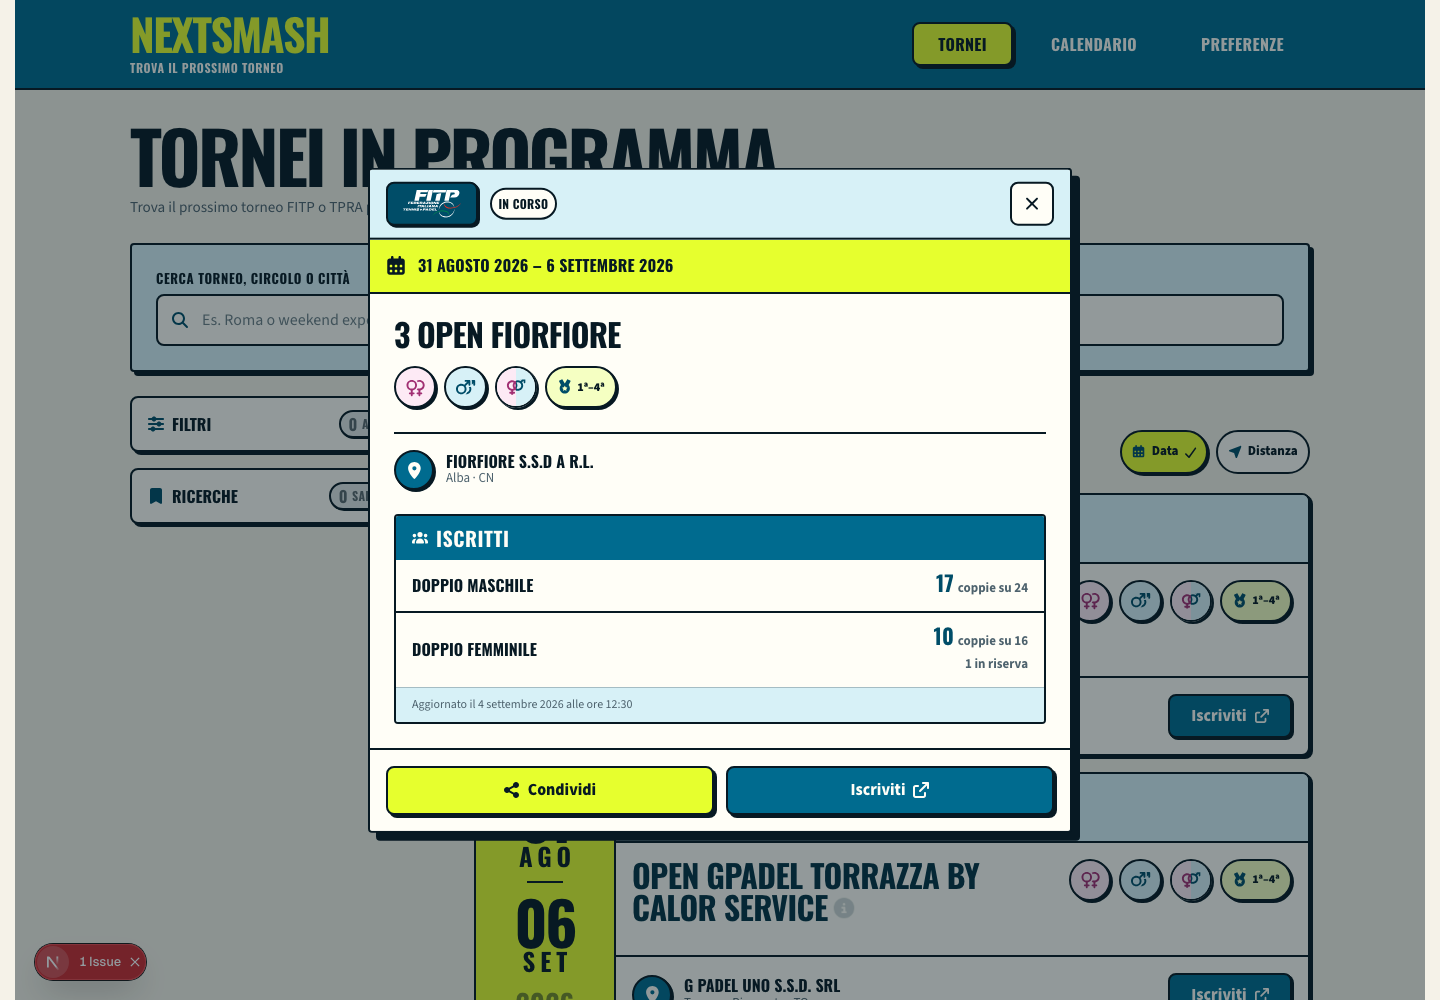
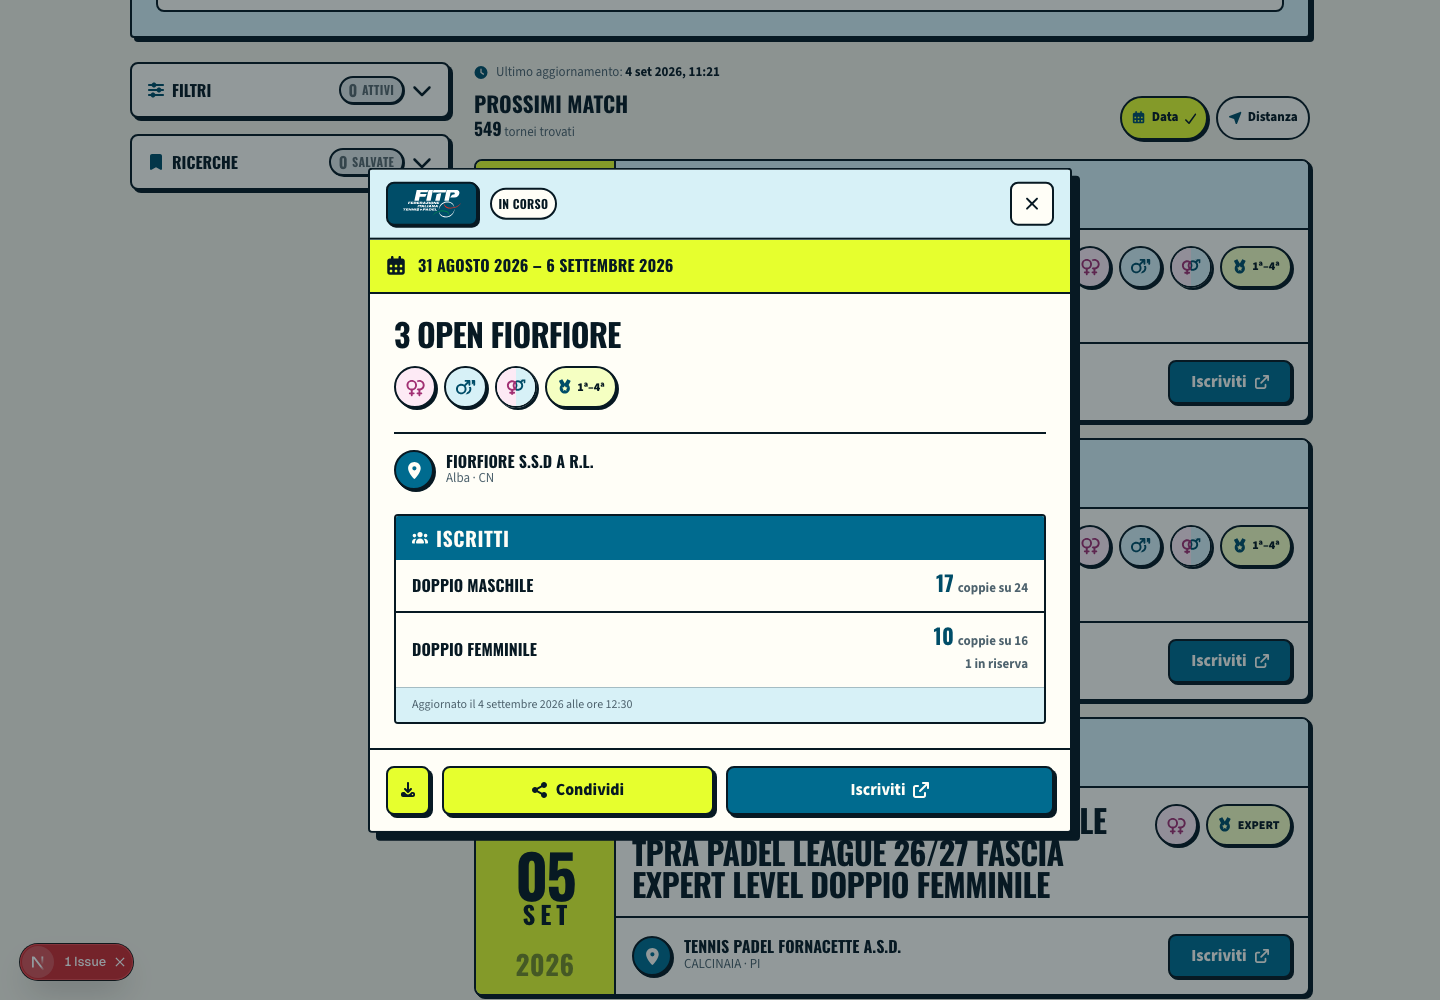
Update: condividi e download torneo

diff --git a/src/components/tournaments/tournament-detail-dialog.tsx b/src/components/tournaments/tournament-detail-dialog.tsx
@@ -4,6 +4,7 @@ import {
   faArrowUpRightFromSquare,
   faCalendarDays,
   faCheck,
+  faDownload,
   faLocationDot,
   faMarsDouble,
   faMedal,
@@ -50,6 +51,11 @@ type CopyResult = {
   tournamentId: string;
   status: "success" | "error";
   url: string;
+};
+
+type ImageExportResult = {
+  tournamentId: string;
+  status: "loading" | "success" | "error";
 };
 
 const dateFormatter = new Intl.DateTimeFormat("it-IT", {
@@ -202,6 +208,17 @@ function canonicalTournamentUrl(tournamentId: string) {
   return new URL(relativeUrl, window.location.origin).toString();
 }
 
+function tournamentImageFilename(title: string) {
+  const slug = title
+    .normalize("NFD")
+    .replace(/[\u0300-\u036f]/g, "")
+    .toLocaleLowerCase("it-IT")
+    .replace(/[^a-z0-9]+/g, "-")
+    .replace(/^-+|-+$/g, "")
+    .slice(0, 80);
+  return `nextsmash-${slug || "torneo"}.png`;
+}
+
 function countLabel(count: number, singular: string, plural: string) {
   return count === 1 ? singular : plural;
 }
@@ -253,6 +270,8 @@ export function TournamentDetailDialog({
     status: "idle",
   });
   const [copyResult, setCopyResult] = useState<CopyResult | null>(null);
+  const [imageExportResult, setImageExportResult] =
+    useState<ImageExportResult | null>(null);
   const isOpen = tournament !== null;
   const tournamentId = tournament?.id ?? null;
   const tournamentSource = tournament?.source ?? null;
@@ -392,6 +411,64 @@ export function TournamentDetailDialog({
     }
   }
 
+  async function downloadTournamentImage() {
+    const dialog = dialogRef.current;
+    if (!dialog || !tournament) return;
+
+    const selectedTournament = tournament;
+    setImageExportResult({
+      tournamentId: selectedTournament.id,
+      status: "loading",
+    });
+
+    const exportNode = dialog.cloneNode(true) as HTMLDialogElement;
+    exportNode.removeAttribute("open");
+    exportNode.setAttribute("aria-hidden", "true");
+    exportNode.classList.add("ns-tournament-detail-dialog--image-export");
+    exportNode.style.width = `${Math.ceil(dialog.getBoundingClientRect().width)}px`;
+    exportNode
+      .querySelectorAll<HTMLElement>("[data-image-export-hidden]")
+      .forEach((element) => element.remove());
+    document.body.append(exportNode);
+
+    try {
+      await document.fonts?.ready;
+      const { toBlob } = await import("html-to-image");
+      const blob = await toBlob(exportNode, {
+        backgroundColor: window.getComputedStyle(dialog).backgroundColor,
+        cacheBust: true,
+        pixelRatio: Math.min(window.devicePixelRatio || 1, 2),
+        style: {
+          inset: "auto",
+          position: "static",
+          zIndex: "auto",
+        },
+      });
+      if (!blob) throw new Error("Image export failed");
+
+      const downloadUrl = URL.createObjectURL(blob);
+      const link = document.createElement("a");
+      link.download = tournamentImageFilename(selectedTournament.title);
+      link.href = downloadUrl;
+      link.style.display = "none";
+      document.body.append(link);
+      link.click();
+      link.remove();
+      window.setTimeout(() => URL.revokeObjectURL(downloadUrl), 1_000);
+      setImageExportResult({
+        tournamentId: selectedTournament.id,
+        status: "success",
+      });
+    } catch {
+      setImageExportResult({
+        tournamentId: selectedTournament.id,
+        status: "error",
+      });
+    } finally {
+      exportNode.remove();
+    }
+  }
+
   const genders = tournament ? visibleGenders(tournament.genders) : [];
   const rankLabel = tournament ? rankCategoryLabel(tournament.rankCategories) : null;
   const tpraLevel = tournament?.tpraLevel?.trim().toLocaleUpperCase("it-IT") ?? null;
@@ -402,6 +479,8 @@ export function TournamentDetailDialog({
       : null;
   const visibleCopyResult =
     copyResult?.tournamentId === tournamentId ? copyResult : null;
+  const visibleImageExportResult =
+    imageExportResult?.tournamentId === tournamentId ? imageExportResult : null;
 
   return (
     <dialog
@@ -451,6 +530,7 @@ export function TournamentDetailDialog({
               className="ns-icon-button"
               type="button"
               aria-label={`Chiudi dettagli di ${tournament.title}`}
+              data-image-export-hidden
               autoFocus
               onClick={requestClose}
             >
@@ -607,20 +687,48 @@ export function TournamentDetailDialog({
             </div>
           </div>
 
-          <footer className="ns-tournament-detail-dialog__footer">
+          <footer
+            className="ns-tournament-detail-dialog__footer"
+            data-image-export-hidden
+          >
             <div className="ns-tournament-detail-dialog__actions">
-              <button
-                className="ns-button ns-button--primary"
-                type="button"
-                onClick={() => void shareTournament()}
-              >
-                <FontAwesomeIcon
-                  className="ns-button__icon"
-                  icon={visibleCopyResult?.status === "success" ? faCheck : faShareNodes}
-                  aria-hidden="true"
-                />
-                {visibleCopyResult?.status === "success" ? "Link copiato" : "Condividi"}
-              </button>
+              <div className="ns-tournament-detail-dialog__share-actions">
+                <button
+                  className="ns-button ns-button--primary ns-tournament-detail-dialog__download-action"
+                  type="button"
+                  aria-label={
+                    visibleImageExportResult?.status === "loading"
+                      ? "Creazione immagine in corso"
+                      : `Scarica l'immagine di ${tournament.title}`
+                  }
+                  aria-busy={visibleImageExportResult?.status === "loading"}
+                  title="Scarica immagine"
+                  disabled={visibleImageExportResult?.status === "loading"}
+                  onClick={() => void downloadTournamentImage()}
+                >
+                  <FontAwesomeIcon
+                    className="ns-button__icon"
+                    icon={faDownload}
+                    aria-hidden="true"
+                  />
+                </button>
+                <button
+                  className="ns-button ns-button--primary"
+                  type="button"
+                  onClick={() => void shareTournament()}
+                >
+                  <FontAwesomeIcon
+                    className="ns-button__icon"
+                    icon={
+                      visibleCopyResult?.status === "success" ? faCheck : faShareNodes
+                    }
+                    aria-hidden="true"
+                  />
+                  {visibleCopyResult?.status === "success"
+                    ? "Link copiato"
+                    : "Condividi"}
+                </button>
+              </div>
               <a
                 className="ns-button ns-button--secondary ns-tournament-detail-dialog__official-link"
                 href={tournament.officialUrl}
@@ -652,9 +760,20 @@ export function TournamentDetailDialog({
               </div>
             ) : null}
 
+            {visibleImageExportResult?.status === "error" ? (
+              <p className="ns-tournament-detail-dialog__image-export-error" role="alert">
+                Non riusciamo a creare l’immagine. Riprova.
+              </p>
+            ) : null}
+
             <p className="ns-visually-hidden" aria-live="polite" aria-atomic="true">
               {visibleCopyResult?.status === "success"
                 ? "Link del torneo copiato negli appunti."
+                : ""}
+            </p>
+            <p className="ns-visually-hidden" aria-live="polite" aria-atomic="true">
+              {visibleImageExportResult?.status === "success"
+                ? "Immagine del torneo scaricata."
                 : ""}
             </p>
           </footer>

diff --git a/src/components/tournaments/tournament-detail-dialog.test.tsx b/src/components/tournaments/tournament-detail-dialog.test.tsx
@@ -7,14 +7,20 @@ import {
   within,
 } from "@testing-library/react";
 import userEvent from "@testing-library/user-event";
+import { toBlob } from "html-to-image";
 import { afterEach, beforeEach, describe, expect, it, vi } from "vitest";
 
 import { TournamentDetailDialog } from "@/components/tournaments/tournament-detail-dialog";
 import type { TournamentWithDistance } from "@/lib/tournaments/filters";
 import type { TournamentRegistrationSummary } from "@/lib/tournaments/registration-types";
 
+vi.mock("html-to-image", () => ({ toBlob: vi.fn() }));
+
 const fetchMock = vi.fn();
 const writeText = vi.fn();
+const toBlobMock = vi.mocked(toBlob);
+const createObjectURL = vi.fn();
+const revokeObjectURL = vi.fn();
 
 function tournament(
   overrides: Partial<TournamentWithDistance> = {},
@@ -89,7 +95,21 @@ beforeEach(() => {
   fetchMock.mockResolvedValue(successfulResponse());
   writeText.mockReset();
   writeText.mockResolvedValue(undefined);
+  toBlobMock.mockReset();
+  toBlobMock.mockResolvedValue(new Blob(["png"], { type: "image/png" }));
+  createObjectURL.mockReset();
+  createObjectURL.mockReturnValue("blob:http://localhost/tournament-image");
+  revokeObjectURL.mockReset();
   vi.stubGlobal("fetch", fetchMock);
+
+  Object.defineProperty(URL, "createObjectURL", {
+    configurable: true,
+    value: createObjectURL,
+  });
+  Object.defineProperty(URL, "revokeObjectURL", {
+    configurable: true,
+    value: revokeObjectURL,
+  });
 
   Object.defineProperty(navigator, "clipboard", {
     configurable: true,
@@ -220,6 +240,43 @@ describe("TournamentDetailDialog", () => {
     expect(within(alert).getByRole("textbox")).toHaveValue(
       "http://localhost/tornei?torneo=fitp%3A1073",
     );
+  });
+
+  it("scarica un PNG del contenuto senza i comandi del dialog", async () => {
+    const downloadClick = vi
+      .spyOn(HTMLAnchorElement.prototype, "click")
+      .mockImplementation(() => undefined);
+    render(<TournamentDetailDialog tournament={tournament()} onClose={vi.fn()} />);
+    const downloadButton = screen.getByRole("button", {
+      name: "Scarica l'immagine di Open Corbetta Sport Center",
+    });
+    const shareButton = screen.getByRole("button", { name: "Condividi" });
+    expect(
+      Array.from(
+        downloadButton
+          .closest(".ns-tournament-detail-dialog__share-actions")
+          ?.querySelectorAll("button") ?? [],
+      ),
+    ).toEqual([downloadButton, shareButton]);
+
+    fireEvent.click(downloadButton);
+
+    await waitFor(() => expect(toBlobMock).toHaveBeenCalledTimes(1));
+    const exportNode = toBlobMock.mock.calls[0]?.[0];
+    expect(exportNode).toHaveClass("ns-tournament-detail-dialog--image-export");
+    expect(exportNode).toHaveTextContent("Open Corbetta Sport Center");
+    expect(exportNode.querySelector("footer")).not.toBeInTheDocument();
+    expect(
+      exportNode.querySelector('[aria-label^="Chiudi dettagli di"]'),
+    ).not.toBeInTheDocument();
+    expect(createObjectURL).toHaveBeenCalledWith(expect.any(Blob));
+    expect(downloadClick).toHaveBeenCalledTimes(1);
+    expect((downloadClick.mock.instances[0] as HTMLAnchorElement).download).toBe(
+      "nextsmash-open-corbetta-sport-center.png",
+    );
+    expect(
+      await screen.findByText("Immagine del torneo scaricata."),
+    ).toBeInTheDocument();
   });
 
   it("inoltra Escape e click fuori dal rettangolo senza richiamare onClose alla chiusura controllata", () => {

diff --git a/src/app/product.css b/src/app/product.css
@@ -2847,6 +2847,24 @@
   grid-template-rows: auto minmax(0, 1fr) auto;
 }
 
+.ns-tournament-detail-dialog--image-export {
+  position: fixed;
+  z-index: -1;
+  inset: 0 auto auto -10000px;
+  display: grid;
+  max-height: none;
+  grid-template-rows: auto auto;
+  overflow: hidden;
+  pointer-events: none;
+  box-shadow: none;
+  transform: none;
+}
+
+.ns-tournament-detail-dialog--image-export
+  .ns-tournament-detail-dialog__scroll {
+  overflow: visible;
+}
+
 .ns-tournament-detail-dialog::backdrop {
   background: color-mix(in srgb, var(--ns-ink) 44%, transparent);
 }
@@ -3101,6 +3119,19 @@
   min-width: 0;
 }
 
+.ns-tournament-detail-dialog__share-actions {
+  display: grid;
+  min-width: 0;
+  grid-template-columns: 2.75rem minmax(0, 1fr);
+  gap: var(--ns-space-3);
+}
+
+.ns-tournament-detail-dialog__actions
+  .ns-tournament-detail-dialog__download-action {
+  width: 2.75rem;
+  padding: 0;
+}
+
 .ns-tournament-detail-dialog__official-link {
   text-decoration: none;
 }
@@ -3123,6 +3154,13 @@
 .ns-tournament-detail-dialog__share-error .ns-input {
   color: var(--ns-ink);
   font-size: 0.8125rem;
+}
+
+.ns-tournament-detail-dialog__image-export-error {
+  margin: 0;
+  color: var(--ns-danger);
+  font-size: 0.8125rem;
+  font-weight: 700;
 }
 
 @media (min-width: 40rem) {

diff --git a/e2e/tournament-detail-dialog.spec.ts b/e2e/tournament-detail-dialog.spec.ts
@@ -89,6 +89,13 @@ test("apre, condivide e naviga il dettaglio del torneo", async ({
     ),
   ).toEqual([]);
 
+  const imageDownload = page.waitForEvent("download");
+  await dialog
+    .getByRole("button", { name: `Scarica l'immagine di ${title}` })
+    .click();
+  await expect(dialog.getByText("Immagine del torneo scaricata.")).toBeAttached();
+  expect((await imageDownload).suggestedFilename()).toMatch(/^nextsmash-.+\.png$/);
+
   await dialog.getByRole("button", { name: "Condividi" }).click();
   await expect(dialog.getByRole("button", { name: "Link copiato" })).toBeVisible();
   const expectedUrl = new URL(href ?? "/tornei", "http://localhost:3000").toString();
